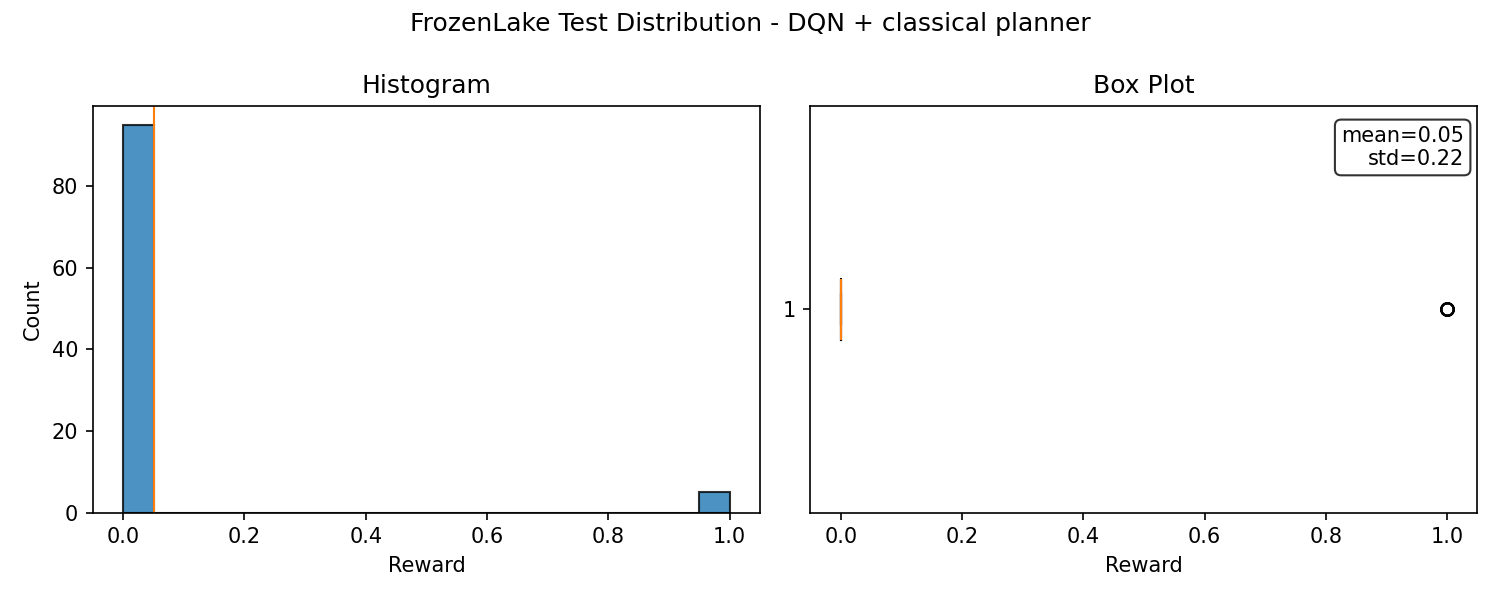
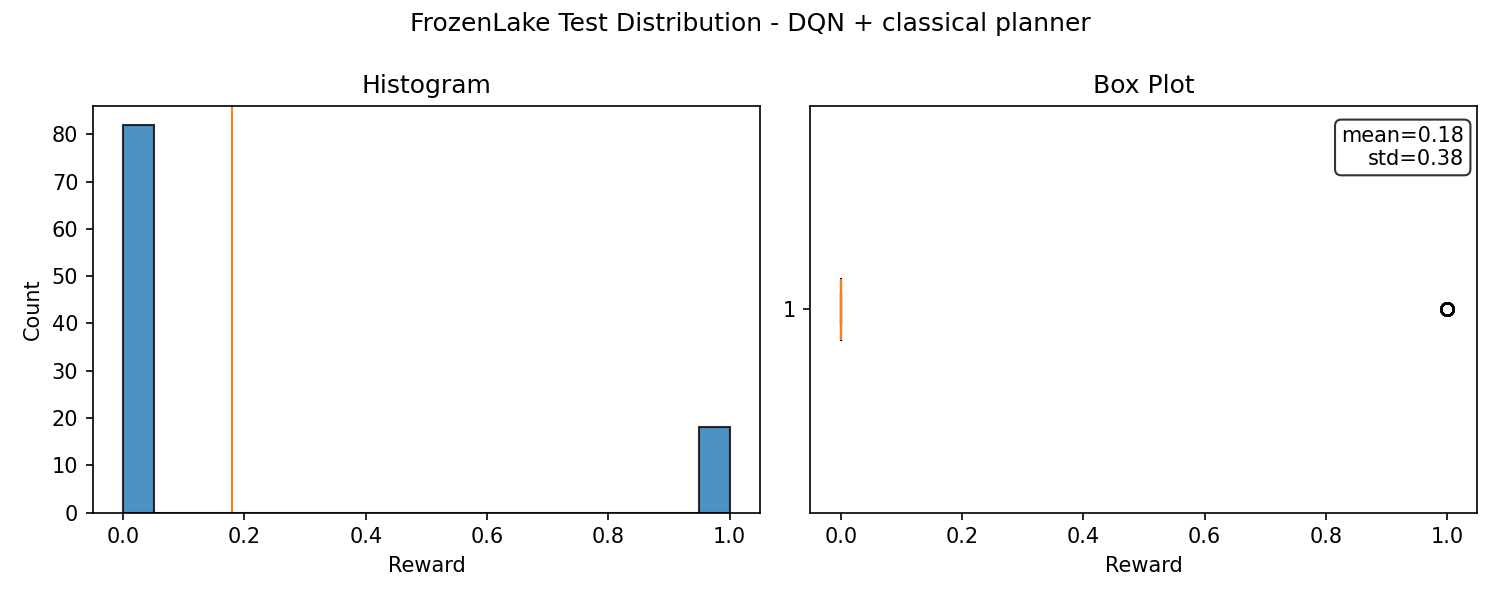
Implemented second epsilon for choice of following the plan or random action

diff --git a/planned-deterministic-frozen-lake/plot_utility.py b/planned-deterministic-frozen-lake/plot_utility.py
@@ -39,43 +39,91 @@ def _save_figure(fig, title, fallback):
     fig.savefig(path, dpi=150)
 
 
-def plot_training_curve(rewards, title="", epsilon_floor_episode=None):
+def plot_training_curve(
+    rewards,
+    title="",
+    epsilon_floor_episode=None,
+    epsilon_per_episode=None,
+    epsilon_2_per_episode=None,
+):
     """
     Raw episode rewards + trailing mean (adaptive window ~2% of length).
     Optional vertical line at episode where epsilon hits minimum (exploration floor).
+    Optional epsilon (and epsilon_2 when using planner exploration) on a right-hand axis.
     """
     rewards = np.asarray(rewards)
     window = int(
         np.clip(len(rewards) // TRAIN_WINDOW_DIVISOR, TRAIN_WINDOW_MIN, TRAIN_WINDOW_MAX)
     )
-    plt.figure(figsize=(10, 5))
-    plt.plot(rewards, alpha=0.3, label="Raw")
+    fig, ax_reward = plt.subplots(figsize=(10, 5))
+    episodes = np.arange(len(rewards))
+
+    ax_reward.plot(episodes, rewards, alpha=0.3, label="Raw", color="C0")
 
     smoothed = np.array(
         [np.mean(rewards[max(0, i - window + 1): i + 1]) for i in range(len(rewards))]
     )
-    plt.plot(smoothed, label=f"Mean (w={window})", linewidth=2)
+    ax_reward.plot(episodes, smoothed, label=f"Mean (w={window})", linewidth=2, color="C0")
 
-    plt.title(title)
-    plt.xlabel("Episodes")
-    plt.ylabel("Reward")
+    ax_reward.set_title(title)
+    ax_reward.set_xlabel("Episodes")
+    ax_reward.set_ylabel("Reward")
+
+    legend_handles = []
+    legend_labels = []
+
+    if epsilon_per_episode is not None:
+        eps = np.asarray(epsilon_per_episode, dtype=float)
+        if len(eps) == len(rewards):
+            ax_eps = ax_reward.twinx()
+            (ln_eps,) = ax_eps.plot(
+                episodes, eps, color="tab:orange", linewidth=1.5, alpha=0.9, label="ε"
+            )
+            ax_eps.set_ylabel("Epsilon")
+            ax_eps.set_ylim(0.0, 1.05)
+            ax_eps.tick_params(axis="y")
+            legend_handles.append(ln_eps)
+            legend_labels.append("ε")
+
+            if epsilon_2_per_episode is not None:
+                eps2 = np.asarray(epsilon_2_per_episode, dtype=float)
+                if len(eps2) == len(rewards):
+                    (ln_eps2,) = ax_eps.plot(
+                        episodes,
+                        eps2,
+                        color="tab:green",
+                        linewidth=1.5,
+                        alpha=0.85,
+                        linestyle="--",
+                        label="ε₂ (planner mix)",
+                    )
+                    legend_handles.append(ln_eps2)
+                    legend_labels.append("ε₂ (planner mix)")
 
     if epsilon_floor_episode is not None:
-        plt.axvline(
+        ln_floor = ax_reward.axvline(
             epsilon_floor_episode,
             color="purple",
             linestyle=":",
             linewidth=1,
             label="Epsilon floor",
         )
-    plt.legend()
-    plt.tight_layout()
+        legend_handles.append(ln_floor)
+        legend_labels.append("Epsilon floor")
 
-    _save_current_plot(title, "Training Curve")
+    h_r, lab_r = ax_reward.get_legend_handles_labels()
+    if legend_handles:
+        ax_reward.legend(h_r + legend_handles, lab_r + legend_labels, loc="upper left")
+    else:
+        ax_reward.legend(h_r, lab_r, loc="best")
+
+    fig.tight_layout()
+
+    _save_figure(fig, title, "Training Curve")
     if PLOT_SHOW:
         plt.show()
 
-    plt.close()
+    plt.close(fig)
 
 
 def plot_test_distribution(results, title=""):

diff --git a/planned-deterministic-frozen-lake/dqn_agent.py b/planned-deterministic-frozen-lake/dqn_agent.py
@@ -54,6 +54,9 @@ LR = 1e-3
 EPSILON_START = 1.0
 EPSILON_MIN = 0.05
 EPSILON_DECAY_STEPS = 50000
+EPSILON_2_START = 1.0
+EPSILON_2_MIN = 0.25
+EPSILON_2_DECAY_STEPS = 50000
 MEMORY_SIZE = 50000
 BATCH_SIZE = 128
 WARM_UP_STEPS = 512
@@ -89,6 +92,9 @@ class DQNAgent:
         self.epsilon = EPSILON_START
         self.epsilon_min = EPSILON_MIN
         self.epsilon_decay_steps = EPSILON_DECAY_STEPS
+        self.epsilon_2 = EPSILON_2_START
+        self.epsilon_2_min = EPSILON_2_MIN
+        self.epsilon_2_decay_steps = EPSILON_2_DECAY_STEPS
         self.batch_size = BATCH_SIZE
         self.warm_up_steps = WARM_UP_STEPS
         self.target_update_steps = TARGET_UPDATE_STEPS
@@ -124,7 +130,8 @@ class DQNAgent:
 
     def select_explore_action(self, env, state):
         if self.use_planner:
-            return self.select_planned_action(env, state)
+            if random.random() < self.epsilon_2:
+                return self.select_planned_action(env, state)
 
         return random.randrange(self.action_size)
 
@@ -172,6 +179,12 @@ class DQNAgent:
             self.epsilon_min,
             EPSILON_START - (EPSILON_START - self.epsilon_min) * frac,
         )
+
+        frac = min(1.0, self.steps_done / self.epsilon_2_decay_steps)
+        self.epsilon_2 = max(
+            self.epsilon_2_min,
+            EPSILON_2_START - (EPSILON_2_START - self.epsilon_2_min) * frac,
+            )
 
     def train_step(self):
         if len(self.memory) < self.batch_size or self.steps_done < self.warm_up_steps:
@@ -246,6 +259,8 @@ def train_dqn(episodes, use_planner, rng_seed, env_seed, log_every=50):
     )
 
     rewards = []
+    epsilon_per_episode: List[float] = []
+    epsilon_2_per_episode: List[float] = []
 
     for ep in range(episodes):
         # Seed only the first reset so the run is reproducible without replaying
@@ -271,6 +286,8 @@ def train_dqn(episodes, use_planner, rng_seed, env_seed, log_every=50):
             total_reward += reward
 
         rewards.append(total_reward)
+        epsilon_per_episode.append(agent.epsilon)
+        epsilon_2_per_episode.append(agent.epsilon_2)
 
         if ep % log_every == 0 or ep == episodes - 1:
             tail = rewards[-50:]
@@ -282,6 +299,7 @@ def train_dqn(episodes, use_planner, rng_seed, env_seed, log_every=50):
                 f"mean{len(tail)}={sum(tail) / len(tail):.3f} | "
                 f"win_last{len(tail)}={win_tail:.0f}% | "
                 f"epsilon={agent.epsilon:.3f} | "
+                f"epsilon_2={agent.epsilon_2:.3f} | "
                 f"steps={agent.steps_done} | "
                 f"learn={agent.learn_steps}"
             )
@@ -310,6 +328,8 @@ def train_dqn(episodes, use_planner, rng_seed, env_seed, log_every=50):
     print(" | ".join(parts))
 
     agent.training_rewards = rewards
+    agent.training_epsilon = epsilon_per_episode
+    agent.training_epsilon_2 = epsilon_2_per_episode
     return agent
 
 
@@ -322,6 +342,7 @@ def test_dqn(agent, episodes, rng_seed=42, env_seed=42):
 
     env = gym.make(ENV_ID, is_slippery=True)
     agent.epsilon = 0.0
+    agent.epsilon_2 = 0.0
     agent.steps_done = 0
     agent.planner_calls = 0
     agent.planner_misses = 0

diff --git a/planned-deterministic-frozen-lake/main.py b/planned-deterministic-frozen-lake/main.py
@@ -17,7 +17,12 @@ def main():
     print("--- Training ---")
 
     dqn_agent = train_dqn(episodes=TRAIN_EPISODES, use_planner=True, rng_seed=RNG_SEED, env_seed=env_seed)
-    plot_training_curve(dqn_agent.training_rewards, title="FrozenLake Training Curve - DQN + classical planner")
+    plot_training_curve(
+        dqn_agent.training_rewards,
+        title="FrozenLake Training Curve - DQN + classical planner",
+        epsilon_per_episode=dqn_agent.training_epsilon,
+        epsilon_2_per_episode=dqn_agent.training_epsilon_2,
+    )
 
     print("--- Evaluation ---")
 
@@ -29,7 +34,11 @@ def main():
     print("--- Training ---")
 
     dqn_agent = train_dqn(episodes=TRAIN_EPISODES, use_planner=False, rng_seed=RNG_SEED, env_seed=env_seed)
-    plot_training_curve(dqn_agent.training_rewards, title="FrozenLake Training Curve - DQN with NO classical planner")
+    plot_training_curve(
+        dqn_agent.training_rewards,
+        title="FrozenLake Training Curve - DQN with NO classical planner",
+        epsilon_per_episode=dqn_agent.training_epsilon,
+    )
 
     print("--- Evaluation ---")
 